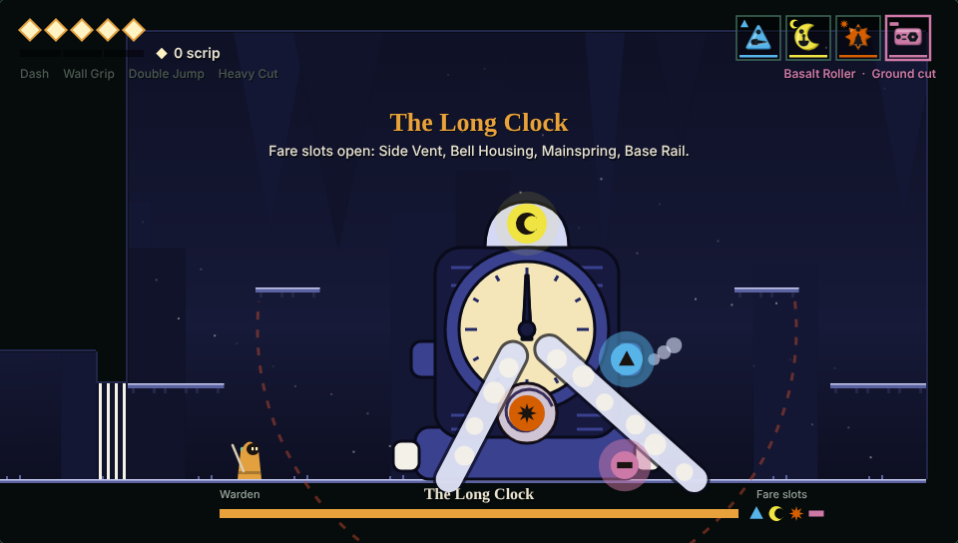
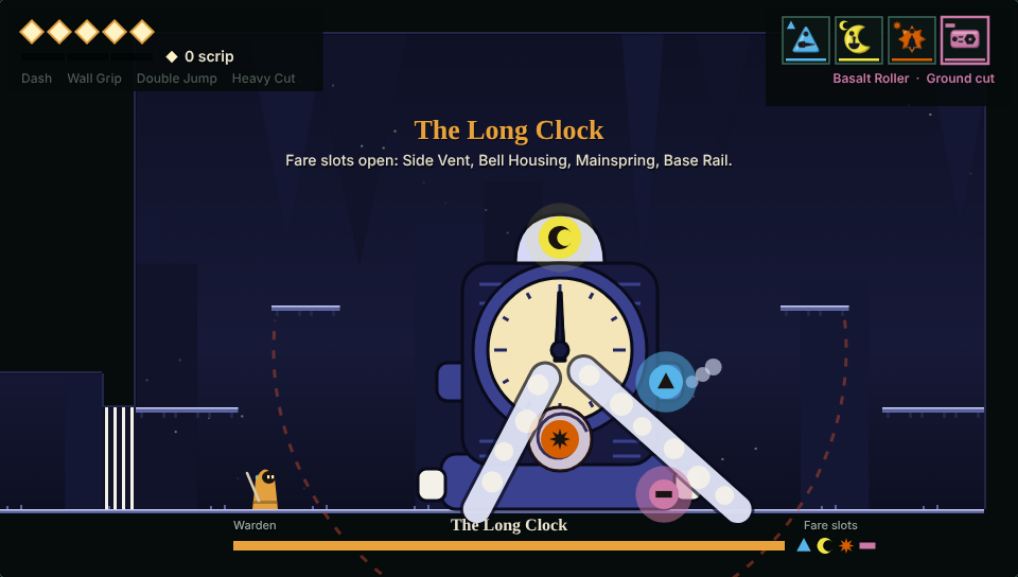
Tester fixes: prompts, pause menu, unique tokens, arc retune, gentler first region, tips
All 31 checks pass.

Claude-Session: https://claude.ai/code/session_01FSfHxkiMXJavUhRm9Y8A9M

diff --git a/docs/STATUS.md b/docs/STATUS.md
@@ -21,9 +21,20 @@
 - Art pass (sprites through G.art), UI polish, independent play-through, publishing.
 - Difficulty is untuned by hand: see the report notes (r4 and the Terminus have 4 to 5 enemies per room; r3 rolls toads at every ground marker).
 
-## Pause point: 2026-11-14, about 11:15 Pacific (usage limit, resets 2pm)
-- Published build (all 19 checks passed at the time, before QA, art and fixes): https://claude.ai/artifact/95p16agX6vJmVZamusXNDf (slug 41750cd7-60e9-4932-8d05-f77cad4966a2, version 1794677217-e366). It does NOT yet include the QA pass, the item art, or the tester fixes.
-- Done since then, in the working tree: QA and balance pass (strict room validator, enemy mix, boss fairness bot, visual sweep, co-op, perf); item art (assets/tokens, assets/trinkets, js/art/sprites.js, docs/ART_GUIDE.md); independent tester report (10 findings).
-- The fix engineer (agent adcb51156e1875030) was cut off while fixing the tester's findings. Tree state: 23 of 31 checks pass. Failing: boss_final, boss_r3, punch, tokens (all on the arc cut after the Ochre Ladle retune: old checks stand at the old range, or the retune broke hits), boss_r4 (crabs left after the boss died), systems (ticket and booth expectations after the unique-token rule), page_fit and sprites (getImageData on a canvas tainted by file:// images: the checks must not read pixels, or must compare another way).
-- Next: resume the fix engineer (SendMessage) to finish items 9 and 10 and repair those 8 checks; run the full suite; publish to the same artifact including assets/ and js/art/sprites.js; update the project handbook and bible; then the wider art pass (player, enemies, bosses, tiles) following docs/ART_GUIDE.md.
-- Do not publish the working tree until the full suite passes.
+## Fix pass (2026-11-14, ten tester findings)
+1. Prompts: `G.props.wrap` and `layoutPrompt` wrap to 340 px and clamp the panel inside the screen (check `prompts`: every prop and tip).
+2. Pause is a menu (Resume, Restart run, Quit to title) in js/ui/menus.js: selected row highlighted, confirm step for Restart and Quit, controls shown in the words of the last device; the window blur or a hidden tab pauses (js/main.js). Down+Slash no longer quits. Check `pause`.
+3. Tokens are unique per run: `balance` draws trunks, ticket choices, booth stock and kiosk wares after trimming, from ids not held, void or claimed (`graph.claimed`); when the pool is dry a trinket or scrip is offered (`lootData`, `G.game.spareTokens`, `G.items.roll` returns null). The seed still reproduces the run. The pool is spent by the kiosk draw, so the booth usually has no stock and gives a trinket or scrip (by design, the prompt says so). Check `tokens_unique` (80 graphs).
+4. Arc tokens are aimed by what is held (`aimOf` in js/content/items.js): the Ladle lands about 131 px ahead by default, Up lobs it high, the facing direction throws it far, Down drops it close; the Kettle and Skipstone have the same table. Every Warden's arc slot is reachable with each arc token (`arc_reach`). Old checks `tokens`, `punch`, `boss_r3`, `boss_final` now aim with a held direction.
+5. r1 is gentle: region `scale {hp 0.8, aggro 0.85}` and `intro {maxEnemies 2, calm 8}` (regions.js), applied in `Enemy.applyScale` and worldgen; kills give `C.KILL_MEND`; bosses wait `C.BOSS_GRACE` (1.5 s) after the intro. r1_chain and r1_dock planks were widened. Check `r1_bot` (plain bot crosses r1's three rooms alive: 10 of 12 seeds in the check, 32 of 40 in a wider sweep).
+6. Every arena has a perch 3 tiles up against both walls (r1 to r4 rows 12 and 10; the Terminus already had them). Check `arena_escape` (bot).
+7. One-line tips shown once each (`G.tips` in js/ui/hud.js: token, mend, bounce, fare), wording by `G.input.last`; four hub signs say where tokens come from. Check `tips`.
+8. The strict validator passes r2_tower, r3_brines and all 49 main rooms in both directions; none needed the bounce (the tester ran the non-strict mode, which finds bounce routes). Strict mode now also rejects slashes and tests the D/C jobs both ways.
+9. Page: header holds the notes, `.frame` scales to the window, no scrolling (check `page_fit`: 9 window sizes from 1100x700 down to 480x800); the HUD draws after the room with opaque slot cells and corner plates.
+10. Sprites: `sprites.js` adds an entry only after the image is decoded (`G.spritesPending`), so the code-drawn icon shows until then and there is no flicker; the map's "Tokens held" row now uses the sprites. Check `sprites` records draw calls (the canvas is tainted under file://, pixels cannot be read).
+- Full suite: `node tools/smoke.mjs` passes all 31 checks.
+- Old checks repaired: `systems` (tickets may hold trinkets or scrip, booth stock, pause menu), `boss_r4` (crabs are swept a step after the boss dies).
+
+## Open
+- Weak spots: a player cornered between boss and wall cannot hop a wide boss body (r1 charge, r4 spin); fight lengths are simulated, not played by a person; hub, r1 and r4 skies are close in hue; r1's plain bot loses about 1 run in 5.
+- Art pass (player, enemies, bosses, tiles) following docs/ART_GUIDE.md; independent play-through; publishing (the published artifact predates all of this; do not publish until the suite passes).

diff --git a/docs/ARCHITECTURE.md b/docs/ARCHITECTURE.md
@@ -142,3 +142,10 @@ Run it on your own rooms before handing them over: `node tools/roomlint.mjs <sub
 - **Lint** (tools/checks/rooms.mjs): 30 x 17 per cell; known characters only; closed borders except the standard exits (main: left and right at rows 12 to 14 of the bottom cell, arena: left, the hall row above may be open; branch, trial, hub: none); the right D count, label and markers per kind (arena: one B and a boss door; trial: one M; B, G, P, M only where they belong); every ground marker has solid or one-way ground under it, headroom, and R / K have their free floor; a floating F is not wedged in a wall; an L has a solid ceiling above it (warning if more than 6 tiles up); a floor and headroom at each entrance; no spikes within 2 columns of an entrance or doorway; `needs` names real abilities. Warnings (do not fail): a main room with no D or more than 2, missing sign texts, a boss floor under 10 tiles.
 - **Traversal bot**: runs the real engine through `G.debug` with enemies and props removed and the room's `needs` abilities on (`needs: ['double']` on a branch room; main, trial and arena rooms must be base moves only). Main: left entrance to right exit and back. Branch and trial: doorway to every plinth, trunk, machine, kiosk, booth, standpipe and signal post, and back. Arena: entrance to past the boss door. First a cheap run-and-jump pass, then a seeded beam search over 8-step input segments (direction x jump x down-slash, plus dash when allowed) scored by tile-path distance to the goal. A found route is replayed from a fresh start to prove it. On failure it prints the furthest point reached, the path left, and the wall height or gap width in the way.
 - Blind spots: it does not use Heavy Cut or wall tricks beyond what the search finds; it does not interact (reaching a prop's spot counts); a down-slash bounce on spikes is a base move, so a spiked pit of any width can be crossed by chaining bounces (the output says "uses a down-slash bounce"; if you want a real barrier make it a wall or a drop that cannot be climbed); the search is not a proof, so a "stuck" room may still be passable by a very precise route (make the room easier or ask QA); enemies and hazards other than spikes are ignored.
+
+## Fix pass notes (2026-11-14)
+- Tokens: `worldgen.balance` claims ids in `graph.claimed`; `G.game.spareTokens(cls, stock)` lists what may still be offered; sources fall back to a trinket, then 40 scrip (`lootData`).
+- Aim: arc tokens read `aimOf(p)` (up, fwd, down, neutral) and a `LOB` table per token.
+- Regions: `scale {hp, aggro}` is applied to enemies at room instance; `intro {maxEnemies, calm, avoid}` shapes the first main room. `C.BOSS_GRACE`, `C.KILL_MEND` in util.js.
+- UI: `G.menus.pauseStep` (pause menu), `G.tips` (one-line tips, device wording via `G.input.name`), `G.props.layoutPrompt` (wrapped, clamped prompts). Blur and hidden tab call the auto-pause in main.js.
+- Checks: new `prompts`, `pause`, `tips`, `tokens_unique`, `arc_reach`, `arena_escape`, `r1_bot`, `page_fit`, `sprites`. Under file:// the game canvas is tainted: checks must record draw calls, not read pixels.

diff --git a/README.md b/README.md
@@ -6,10 +6,10 @@ A 2D action platformer for 1 to 4 local players, written in plain JavaScript for
 Open `index.html` in a browser. Keyboard: arrows or WASD to move, Z or Space to jump, X or J to slash, C, K or Shift to dash, V or L to use a token, Q or E to switch token, F to mend, Up at doors and props, Tab for the map, Esc to pause. Controllers work too; players 2 to 4 join with a controller.
 
 ## State of this snapshot (14 November 2026)
-This is the working copy, mid-fix. It is ahead of the published build but not fully passing:
-- 23 of 31 automated checks pass. The 8 failing checks and the reasons are listed at the end of `docs/STATUS.md`.
-- It includes the QA and balance pass, the original item art, and about half of the fixes for the independent tester's findings.
-- No person has play-tested it yet.
+- All 31 automated checks pass, including a scripted full run from the hub to the last boss, a room validator, boss fairness bots, co-op and performance checks.
+- It includes the QA and balance pass, the original item art, and the fixes for an independent tester's findings.
+- No person has play-tested it yet. Difficulty and feel are tuned by bots only.
+- Known weak spots are listed in `docs/STATUS.md`.
 
 ## Where things are
 - `index.html`, `css/`, `js/`: the game. `js/core` and `js/game` are the engine, `js/content` is bosses, enemies, tokens, rooms and regions, `js/ui` is the HUD and screens, `js/art` loads sprites.
